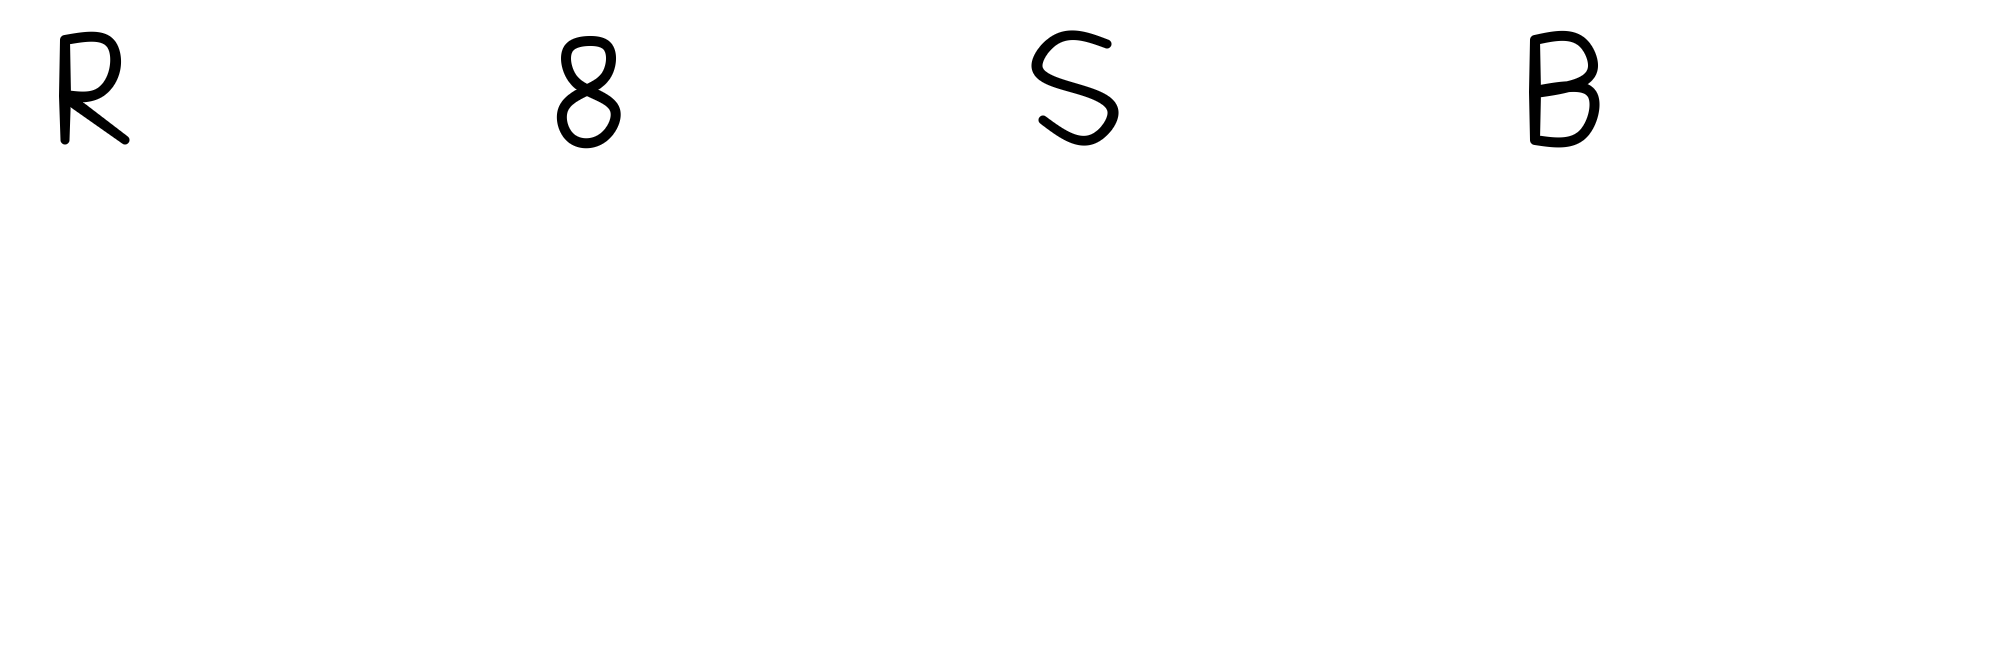
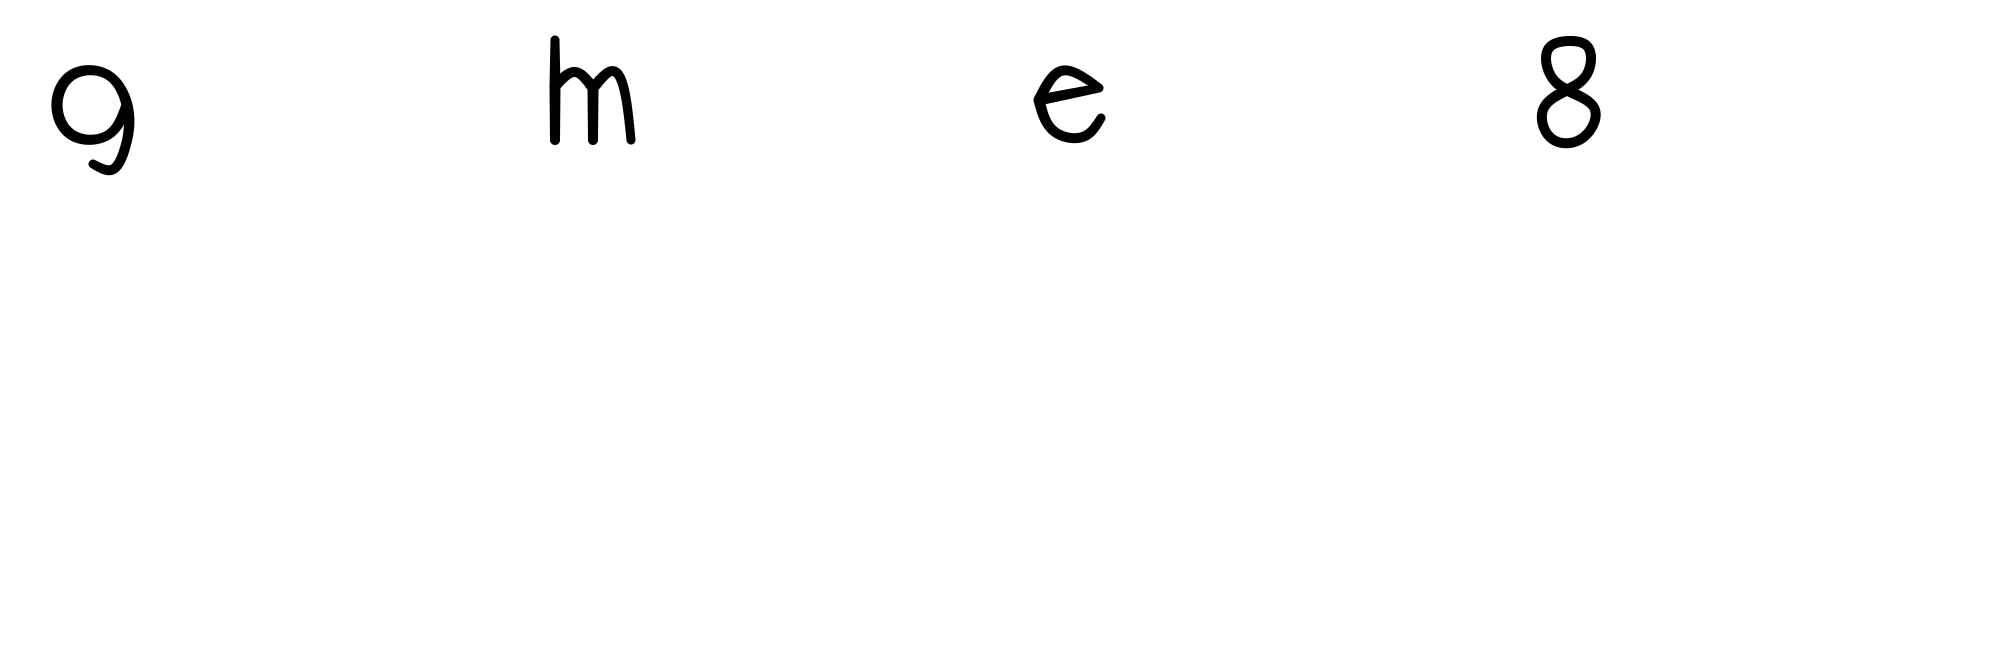
Minusculas a-z en el Abecedario: x-altura 30, ascendentes y descendentes

diff --git a/implementacion/java/src/ejemplos/java/Abecedario.java b/implementacion/java/src/ejemplos/java/Abecedario.java
@@ -10,6 +10,7 @@ import javax.imageio.ImageIO;
 
 /**
  * Experimento: un abecedario dibujado solo con la primitiva Gota, en negro sobre blanco.
+ * Mayusculas, digitos y minusculas (x-altura a 30, ascendentes a 0, descendentes a unos 132).
  * Cada glifo son datos (nodos con su radio mas aristas; menos de 12 gotas), la expresividad sale
  * del reparto de los radios y del relajar() y alisar() del Grafo. Escribe abecedario.png y, con
  * parametro "detalle", abecedario_detalle.png con unos glifos a mayore rama.
@@ -129,6 +130,105 @@ public class Abecedario {
                 new int[][] { { 0, 1, 1 }, { 1, 2 }, { 2, 3, 1 } }));
     }
 
+    static void minusculas() {
+        GLIFOS.put("a", glifo(80,
+                new double[][] { { 76, 65, 5.5 }, { 57, 95, 4.8 }, { 19, 95, 5.4 }, { 0, 65, 5.6 }, { 19, 35, 5.4 },
+                                 { 57, 35, 4.8 }, { 76, 30, 4.5 }, { 76, 100, 4.5 } },
+                new int[][] { { 0, 1 }, { 1, 2 }, { 2, 3 }, { 3, 4 }, { 4, 5 }, { 5, 0 }, { 0, 6 }, { 0, 7 } }));
+        GLIFOS.put("b", glifo(76,
+                new double[][] { { 10, 0, 4.5 }, { 10, 56, 5.5 }, { 10, 100, 5 }, { 34, 31, 5 }, { 66, 50, 5.5 },
+                                 { 62, 90, 5 }, { 34, 98, 5 } },
+                new int[][] { { 0, 1, 1 }, { 1, 2, 1 }, { 1, 3 }, { 3, 4 }, { 4, 5 }, { 5, 6 }, { 6, 2 } }));
+        GLIFOS.put("c", glifo(70,
+                new double[][] { { 57, 36, 4.5 }, { 14, 38, 5 }, { 2, 65, 5.5 }, { 14, 92, 5 }, { 57, 94, 4.5 } },
+                new int[][] { { 0, 1 }, { 1, 2 }, { 2, 3 }, { 3, 4 } }));
+        GLIFOS.put("d", glifo(76,
+                new double[][] { { 66, 0, 4.5 }, { 66, 56, 5.5 }, { 66, 100, 5 }, { 40, 31, 5 }, { 8, 50, 5.5 },
+                                 { 12, 90, 5 }, { 40, 98, 5 } },
+                new int[][] { { 0, 1, 1 }, { 1, 2, 1 }, { 1, 3 }, { 3, 4 }, { 4, 5 }, { 5, 6 }, { 6, 2 } }));
+        GLIFOS.put("e", glifo(72,
+                new double[][] { { 64, 48, 4.5 }, { 26, 31, 5 }, { 4, 60, 5.5 }, { 20, 92, 5 }, { 50, 96, 5 },
+                                 { 66, 78, 4.5 } },
+                new int[][] { { 0, 1 }, { 1, 2 }, { 2, 3 }, { 3, 4 }, { 4, 5 }, { 2, 0, 1 } }));
+        GLIFOS.put("f", glifo(52,
+                new double[][] { { 44, 2, 4.5 }, { 30, 6, 5 }, { 16, 18, 5 }, { 16, 40, 5.5 }, { 16, 60, 5 },
+                                 { 16, 100, 4.5 }, { 42, 40, 4.5 } },
+                new int[][] { { 0, 1 }, { 1, 2 }, { 2, 3, 1 }, { 3, 4, 1 }, { 4, 5, 1 }, { 3, 6, 1 } }));
+        GLIFOS.put("g", glifo(76,
+                new double[][] { { 72, 65, 5.5 }, { 53, 95, 4.8 }, { 17, 95, 5.4 }, { 2, 65, 5.6 }, { 17, 35, 5.4 },
+                                 { 53, 35, 4.8 }, { 70, 108, 5 }, { 56, 130, 5 }, { 38, 124, 4.5 } },
+                new int[][] { { 0, 1 }, { 1, 2 }, { 2, 3 }, { 3, 4 }, { 4, 5 }, { 5, 0 }, { 0, 6 }, { 6, 7 }, { 7, 8 } }));
+        GLIFOS.put("h", glifo(76,
+                new double[][] { { 10, 0, 4.5 }, { 10, 44, 5.5 }, { 10, 100, 5 }, { 36, 30, 5 }, { 62, 48, 5 },
+                                 { 64, 82, 5 }, { 66, 100, 4.5 } },
+                new int[][] { { 0, 1, 1 }, { 1, 2, 1 }, { 1, 3 }, { 3, 4 }, { 4, 5 }, { 5, 6 } }));
+        GLIFOS.put("i", glifo(20,
+                new double[][] { { 10, 30, 4.5 }, { 10, 65, 5.5 }, { 10, 100, 4.5 }, { 10, 6, 4 }, { 10, 12, 4 } },
+                new int[][] { { 0, 1 }, { 1, 2 }, { 3, 4 } }));
+        GLIFOS.put("j", glifo(36,
+                new double[][] { { 26, 30, 4.5 }, { 26, 62, 5.5 }, { 24, 104, 5 }, { 16, 128, 5 }, { 0, 118, 4.5 },
+                                 { 26, 6, 4 }, { 26, 12, 4 } },
+                new int[][] { { 0, 1 }, { 1, 2 }, { 2, 3 }, { 3, 4 }, { 5, 6 } }));
+        GLIFOS.put("k", glifo(74,
+                new double[][] { { 10, 0, 4.5 }, { 10, 100, 5 }, { 10, 64, 5.5 }, { 24, 64, 5.5 }, { 64, 30, 4.5 },
+                                 { 68, 100, 4.5 } },
+                new int[][] { { 0, 2, 1 }, { 2, 1, 1 }, { 3, 2 }, { 3, 4 }, { 3, 5 } }));
+        GLIFOS.put("l", glifo(20,
+                new double[][] { { 10, 0, 4.5 }, { 10, 50, 5.5 }, { 10, 100, 4.5 } },
+                new int[][] { { 0, 1 }, { 1, 2 } }));
+        GLIFOS.put("m", glifo(108,
+                new double[][] { { 10, 0, 4.5 }, { 10, 46, 5.5 }, { 10, 100, 5 }, { 30, 32, 5 }, { 48, 48, 5.5 },
+                                 { 48, 100, 5 }, { 64, 32, 5 }, { 86, 100, 4.5 } },
+                new int[][] { { 0, 1, 1 }, { 1, 2, 1 }, { 1, 3 }, { 3, 4 }, { 4, 5, 1 }, { 4, 6 }, { 6, 7 } }));
+        GLIFOS.put("n", glifo(76,
+                new double[][] { { 10, 0, 4.5 }, { 10, 46, 5.5 }, { 10, 100, 5 }, { 36, 30, 5 }, { 62, 48, 5 },
+                                 { 64, 82, 5 }, { 66, 100, 4.5 } },
+                new int[][] { { 0, 1, 1 }, { 1, 2, 1 }, { 1, 3 }, { 3, 4 }, { 4, 5 }, { 5, 6 } }));
+        GLIFOS.put("o", glifo(80,
+                new double[][] { { 76, 65, 5.0 }, { 57, 95, 4.8 }, { 19, 95, 5.4 }, { 0, 65, 5.6 }, { 19, 35, 5.4 },
+                                 { 57, 35, 4.8 } },
+                new int[][] { { 0, 1 }, { 1, 2 }, { 2, 3 }, { 3, 4 }, { 4, 5 }, { 5, 0 } }));
+        GLIFOS.put("p", glifo(76,
+                new double[][] { { 10, 30, 4.5 }, { 10, 66, 5.5 }, { 10, 100, 5 }, { 10, 132, 4.5 }, { 46, 32, 5 },
+                                 { 62, 60, 5.5 }, { 40, 98, 5 } },
+                new int[][] { { 0, 1, 1 }, { 1, 2, 1 }, { 2, 3, 1 }, { 1, 4 }, { 4, 5 }, { 5, 6 }, { 6, 2 } }));
+        GLIFOS.put("q", glifo(76,
+                new double[][] { { 66, 30, 4.5 }, { 66, 66, 5.5 }, { 66, 100, 5 }, { 66, 132, 4.5 }, { 32, 32, 5 },
+                                 { 14, 60, 5.5 }, { 22, 90, 5 } },
+                new int[][] { { 0, 1, 1 }, { 1, 2, 1 }, { 2, 3, 1 }, { 1, 4 }, { 4, 5 }, { 5, 6 }, { 6, 2 } }));
+        GLIFOS.put("r", glifo(58,
+                new double[][] { { 10, 30, 4.5 }, { 10, 66, 5.5 }, { 10, 100, 5 }, { 18, 40, 5 }, { 44, 33, 5 },
+                                 { 56, 44, 4.5 } },
+                new int[][] { { 0, 1 }, { 1, 2 }, { 1, 3 }, { 3, 4 }, { 4, 5 } }));
+        GLIFOS.put("s", glifo(64,
+                new double[][] { { 58, 33, 4.5 }, { 16, 30, 5 }, { 2, 48, 5.5 }, { 37, 65, 5 }, { 62, 80, 5.5 },
+                                 { 48, 99, 5 }, { 6, 86, 4.5 } },
+                new int[][] { { 0, 1 }, { 1, 2 }, { 2, 3 }, { 3, 4 }, { 4, 5 }, { 5, 6 } }));
+        GLIFOS.put("t", glifo(52,
+                new double[][] { { 26, 6, 4.5 }, { 26, 50, 5 }, { 26, 100, 5 }, { 6, 42, 4.5 }, { 48, 42, 4.5 },
+                                 { 30, 96, 5 }, { 46, 86, 4.5 } },
+                new int[][] { { 0, 1 }, { 1, 2 }, { 3, 4, 1 }, { 2, 5 }, { 5, 6 } }));
+        GLIFOS.put("u", glifo(76,
+                new double[][] { { 10, 30, 4.5 }, { 10, 60, 5 }, { 20, 88, 5.5 }, { 38, 98, 5 }, { 56, 88, 5.5 },
+                                 { 66, 60, 5 }, { 66, 30, 4.5 } },
+                new int[][] { { 0, 1 }, { 1, 2 }, { 2, 3 }, { 3, 4 }, { 4, 5 }, { 5, 6 } }));
+        GLIFOS.put("v", glifo(72,
+                new double[][] { { 0, 30, 4.5 }, { 36, 100, 5.5 }, { 72, 30, 4.5 } },
+                new int[][] { { 0, 1 }, { 1, 2 } }));
+        GLIFOS.put("w", glifo(104,
+                new double[][] { { 0, 30, 4.5 }, { 26, 100, 5 }, { 52, 58, 5.5 }, { 78, 100, 5 }, { 104, 30, 4.5 } },
+                new int[][] { { 0, 1 }, { 1, 2 }, { 2, 3 }, { 3, 4 } }));
+        GLIFOS.put("x", glifo(70,
+                new double[][] { { 0, 30, 4.5 }, { 70, 100, 4.5 }, { 70, 30, 4.5 }, { 0, 100, 4.5 }, { 35, 66, 5.5 } },
+                new int[][] { { 0, 4 }, { 4, 1 }, { 2, 4 }, { 4, 3 } }));
+        GLIFOS.put("y", glifo(72,
+                new double[][] { { 0, 30, 4.5 }, { 72, 30, 4.5 }, { 38, 86, 5.5 }, { 30, 120, 5 }, { 14, 133, 4.5 } },
+                new int[][] { { 0, 2 }, { 1, 2 }, { 2, 3 }, { 3, 4 } }));
+        GLIFOS.put("z", glifo(66,
+                new double[][] { { 2, 32, 5 }, { 60, 32, 5 }, { 2, 100, 5 }, { 60, 100, 4.5 } },
+                new int[][] { { 0, 1, 1 }, { 1, 2, 1 }, { 2, 3, 1 } }));
+    }
+
     static void digitos() {
         GLIFOS.put("0", glifo(78,
                 new double[][] { { 78, 50, 5.0 }, { 58.5, 93, 5.2 }, { 19.5, 93, 5.6 }, { 0, 50, 5.6 }, { 19.5, 7, 5.4 },
@@ -195,6 +295,7 @@ public class Abecedario {
     public static void main(String[] args) throws Exception {
         letras();
         digitos();
+        minusculas();
 
         boolean detalle = args.length > 0 && args[0].equals("detalle");
         if (detalle) {
